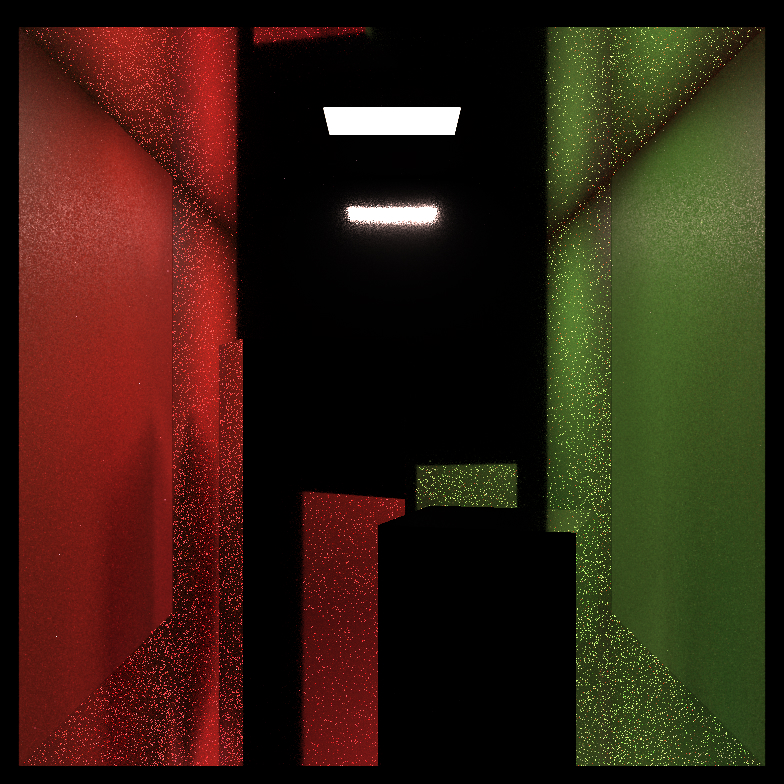
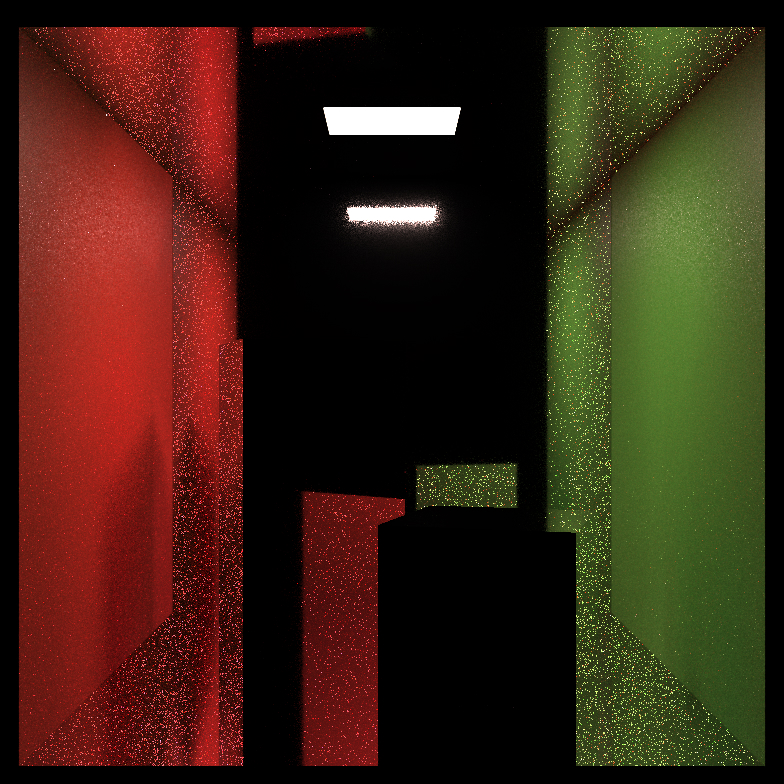
Fixed BDPT not correct compared to PT.

diff --git a/BDPT.cpp b/BDPT.cpp
@@ -4,6 +4,16 @@
 #include "SampleHelperFunctions.hpp"
 #include "SceneRenderingHelper.hpp"
 
+#define CAMERA_ZERO_PDF (10000000000.0)    
+#define CAMERA_RAY_PDF (10.0)    
+//Notes here:
+//This is a magic number, indicating the PDF of a single ray coming out of camera.
+//Since there's always only exact 1 ray coming out of camera, this should be a dirac function.
+//But I'm not sure if this is correct. When I make it huge, it's closer to Path Tracing looking, but the caustic effect is not apparent.(Cause the s_n_t_0 path is less important according to MIS formula)  
+//And when it's less, the image is just not correct. I'm confused right now.
+
+//current value 10.0f is the one that I feel correct and low variance.  
+
 PTVertex PTVertex::Camera(Vector3f cameraPos) {
     PTVertex v;
 	v.type = PTVertex::Type::Camera;
@@ -30,14 +40,14 @@ PathVertex BDPTPath::GetVertex(int i) const {
 
 inline void BDPTPath::GenerateCameraPath(Ray cameraRay) {
     verts[0].vertex = PTVertex::Camera(cameraRay.origin);
-    verts[0].pdf = 1.0f;
-    verts[0].alpha = Vector3f::One();
+    verts[0].pdf = CAMERA_ZERO_PDF;
+    verts[0].alpha = 1.0f;
     verts[0].shadowed = false;
 
     verts[1].vertex = scene->Intersect(cameraRay);
     float distSqr;
     Vector3f atob = (verts[0].vertex.x - verts[1].vertex.x).NormlizeAndGetLengthSqr(&distSqr);
-    verts[1].pdf = abs(DotProduct(-atob, verts[1].vertex.N)) / (EPSILON + distSqr);
+    verts[1].pdf = SrpdfToAreaPdf(CAMERA_RAY_PDF, verts[0].vertex, verts[1].vertex);
     verts[1].alpha = Vector3f::One();
     verts[1].shadowed = false;
 
@@ -92,8 +102,7 @@ void BDPTPath::FillPathUsingRussianRoulette(int start) {
         Vector3f bsdf;
         verts[i + 1] = SampleNextVertex(scene, verts[i], w_o);
         
-        float rrProb = i > 4 ? RUSSIAN_ROULETTE : std::max(verts[i + 1].alpha.x, std::max(verts[i + 1].alpha.y, verts[i + 1].alpha.z));
-        rrProb = std::min(rrProb, 1.0f);
+        float rrProb = i > 4 ? .8f : 1.f;
         if (GetRandomFloat() > rrProb) {
             break;
         }
@@ -150,8 +159,8 @@ BDPTPath& BDPTPath::Append(PTVertex vertex, bool dontcheckshadow) {
         Vector3f alpha = SafeDivide(lastVertex.EvalBsdfOnSolidAngle(w_i), srpdf);
         editVertex.alpha = lastVertex.Throughput() * alpha;
 
-        float rrProb = count > 4 ? RUSSIAN_ROULETTE : std::max(alpha.x, std::max(alpha.y, alpha.z));
-        rrProb = std::min(rrProb, 1.0f);
+        float rrProb = count > 4 ? .8f : 1.f;
+        //rrProb = std::min(rrProb, 1.0f);
         editVertex.pdf *= rrProb;
         editVertex.alpha = SafeDivide(editVertex.alpha, rrProb);
     }
@@ -197,13 +206,12 @@ Vector3f BDPTPath::PathWeight(const BDPTPathView& lightPath, const BDPTPathView&
             return 0.0f;
         }
         auto lightLast = lightPath.Last(); auto camLast = camPath.Last();
-        float cosThetaCamera = camLast.index == 0 ? 1.0f : DotProduct(camLast.Normal(), -dir_ltoc);
         c_st =
             lightLast.EvalBsdfOnSolidAngle(dir_ltoc)
             * camLast.EvalBsdfOnSolidAngle(-dir_ltoc)
             * abs(
                 DotProduct(lightLast.Normal(), dir_ltoc)
-               * cosThetaCamera
+               * DotProduct(camLast.Normal(), -dir_ltoc)
                 / distSqr
                 );
     }
@@ -284,11 +292,12 @@ Vector3f BDPT(const Scene* scene, const Ray& ray, int& outBounces, Vector3f* emi
         for (int iLightPathLength = 0; iLightPathLength <= lightPath.count; iLightPathLength++) {
             if (iCamPathLength + iLightPathLength < 2)
                 continue;
-
+           // if (iLightPathLength != 1 || iCamPathLength != 1)
+            //    continue;
             auto lightSub = lightPath.Sub(iLightPathLength);
             auto pathWeight = BDPTPath::PathWeight(lightSub, camSub);
             pathWeight = Vector3f::Max(pathWeight, 0.0f);
-
+            pathWeight = pathWeight;
             if (camSub.count > 1) {
                 result += pathWeight;
             }
@@ -322,22 +331,22 @@ Vector3f PathVertex::EvalBsdfOnSolidAngle(Vector3f dir) {
 
 float PathVertex::EvalPdfOnSolidAngle(Vector3f dir) {
 	assert(Type() != PTVertex::Type::Background);
+    float cosine = abs(DotProduct(dir, Normal()));
 
 	if (Type() == PTVertex::Type::Light) {
-		return GetCosineWeightedPdf(Normal(), dir);
+		return SafeDivide(GetCosineWeightedPdf(Normal(), dir), cosine);
 	}
 	else if (Type() == PTVertex::Type::Camera) {
-		return 1.0f;
+        return  CAMERA_RAY_PDF;
 	}
 	else {
-		float cosine = abs(DotProduct(dir, Normal()));
 		if (cosine == 0.0f)
 			return 0.0f;
 		Vector3f wo = (Pre().Position() - Position()).Normalized();
-		return Material()->pdf(
+		return SafeDivide(Material()->pdf(
 			wo,
 			Normal(),
-			dir) / cosine;
+			dir), cosine);
 	}
 }
 

diff --git a/main.cpp b/main.cpp
@@ -1,3 +1,4 @@
+#include "global.hpp"
 #include "Renderer.hpp"
 #include "Scene.hpp"
 #include "Triangle.hpp"
@@ -7,6 +8,7 @@
 #include <chrono>
 #include <sstream>
 #include "SceneRenderingHelper.hpp"
+#include "SampleHelperFunctions.hpp"
 #include "BDPT.hpp"
 
 template<typename T> 
@@ -78,9 +80,9 @@ int main(int argc, char** argv)
     mglassBall->ior_d = 1.5f;
     mglassBall->SetSmoothness(.9f);
 
-    MeshTriangle floor("../models/cornellbox/floor.obj", white);
-    MeshTriangle shortbox("../models/cornellbox/shortbox.obj", white);
-    MeshTriangle tallbox("../models/cornellbox/tallbox.obj", white);
+    MeshTriangle floor("../models/cornellbox/floor.obj", silver);
+    MeshTriangle shortbox("../models/cornellbox/shortbox.obj", silver);
+    MeshTriangle tallbox("../models/cornellbox/tallbox.obj", silver);
     MeshTriangle left("../models/cornellbox/left.obj", red);
     MeshTriangle right("../models/cornellbox/right.obj", green);
     MeshTriangle light_("../models/cornellbox/light.obj", light);
@@ -100,23 +102,23 @@ int main(int argc, char** argv)
     //scene.Add(&lightOcculuder);
     scene.BuildBVH();
 #if _DEBUG
-    auto test = refract(Vector3f(-1.0f, 1.0f, 0.0f), Vector3f(0.0f, 1.0f, 0.0f), 1.5f);
-    auto test2 = refract(Vector3f(-1.0f, -1.0f, 0.0f), Vector3f(0.0f, 1.0f, 0.0f), 1.5f);
-    auto test5 = refract(Vector3f(-10.0f, -1.0f, 0.0f).normalized(), Vector3f(0.0f, 1.0f, 0.0f), 1.5f);
+    auto test = Refract(Vector3f(-1.0f, 1.0f, 0.0f), Vector3f(0.0f, 1.0f, 0.0f), 1.5f);
+    auto test2 = Refract(Vector3f(-1.0f, -1.0f, 0.0f), Vector3f(0.0f, 1.0f, 0.0f), 1.5f);
+    auto test5 = Refract(Vector3f(-10.0f, -1.0f, 0.0f).Normalized(), Vector3f(0.0f, 1.0f, 0.0f), 1.5f);
     Vector3f t2;
-    auto test3 = reflect(Vector3f(-1.0f, 1.0f, 0.0f), Vector3f(0.0f, 1.0f, 0.0f));
+    auto test3 = Reflect(Vector3f(-1.0f, 1.0f, 0.0f), Vector3f(0.0f, 1.0f, 0.0f));
 
-    auto test4 = -(1.5f * Vector3f(-1.0f, -1.0f, 0.0f).normalized() + Vector3f(1.5f, 1.0f, 0.0f).normalized());
+    auto test4 = -(1.5f * Vector3f(-1.0f, -1.0f, 0.0f).Normalized() + Vector3f(1.5f, 1.0f, 0.0f).Normalized());
 
     int t;
-    Vector3f debugPixel = Vector3f(81, 87, 0);
+    Vector3f debugPixel = Vector3f(434, 510, 0);
     Vector3f debugPixelUV = (debugPixel / Vector3f(scene.width, scene.height, 1.0f) - 0.5f) * 2.0f;
 
     float scale = CalculateScale(scene.fov);
     auto debugRay = PixelPosToRay(debugPixel.x, debugPixel.y, scene.width, scene.height, scale);
-    reset_random(81 + 87 * scene.height + 1);
+    ResetRandom(434 + 510 * scene.height + 1);
     std::vector<Vector3f> tb(scene.width * scene.height);
-    //BDPT(&scene, Ray(scene.eyePos, debugRay), t, &tb[0]);
+    BDPT(&scene, Ray(scene.eyePos, debugRay), t, &tb[0]);
     SaveFloatImageToJpg(tb, scene.width, scene.height, "t.jpg");
     /*{
         BDPTPath lightpath(&scene);

diff --git a/SampleHelperFunctions.hpp b/SampleHelperFunctions.hpp
@@ -123,10 +123,9 @@ inline float SrpdfToAreaPdf(float srpdf, const PTVertex& v1, const PTVertex& v2)
 	assert(v1.type != PTVertex::Type::Background);
 	float distSqr;
 	Vector3f w = (v2.x - v1.x).NormlizeAndGetLengthSqr(&distSqr);
-	if (v1.type == PTVertex::Type::Camera) {
-		return srpdf * abs(DotProduct(-w, v2.N) / distSqr);
-	}
-	else {
-		return srpdf * abs(DotProduct(w, v1.N) * DotProduct(-w, v2.N) / distSqr);
-	}
+	float cos1 = v1.type == PTVertex::Type::Camera ? 1.0f : abs(DotProduct(w, v1.N));
+	float cos2 = v2.type == PTVertex::Type::Camera ? 1.0f : abs(DotProduct(-w, v2.N));
+
+	return srpdf * abs(cos1 * cos2 / distSqr);
+
 }

diff --git a/BDPT.hpp b/BDPT.hpp
@@ -89,6 +89,8 @@ struct PathVertex {
     }
 
     inline Vector3f Normal() const {
+        if (path->verts[index].vertex.type == PTVertex::Type::Camera)
+            return Vector3f(0.0f, 0.0f, 1.0f);
         return path->verts[index].vertex.N;
     }
 

diff --git a/PathTracer.cpp b/PathTracer.cpp
@@ -106,6 +106,7 @@ Vector3f PathTrace(const Scene* scene, const Ray& ray, int& outBounces)
             }
         }
 #endif
+        break;
 
         Vector3f weight = 0;
         if (pdf_bsdf > 0.0f) {
